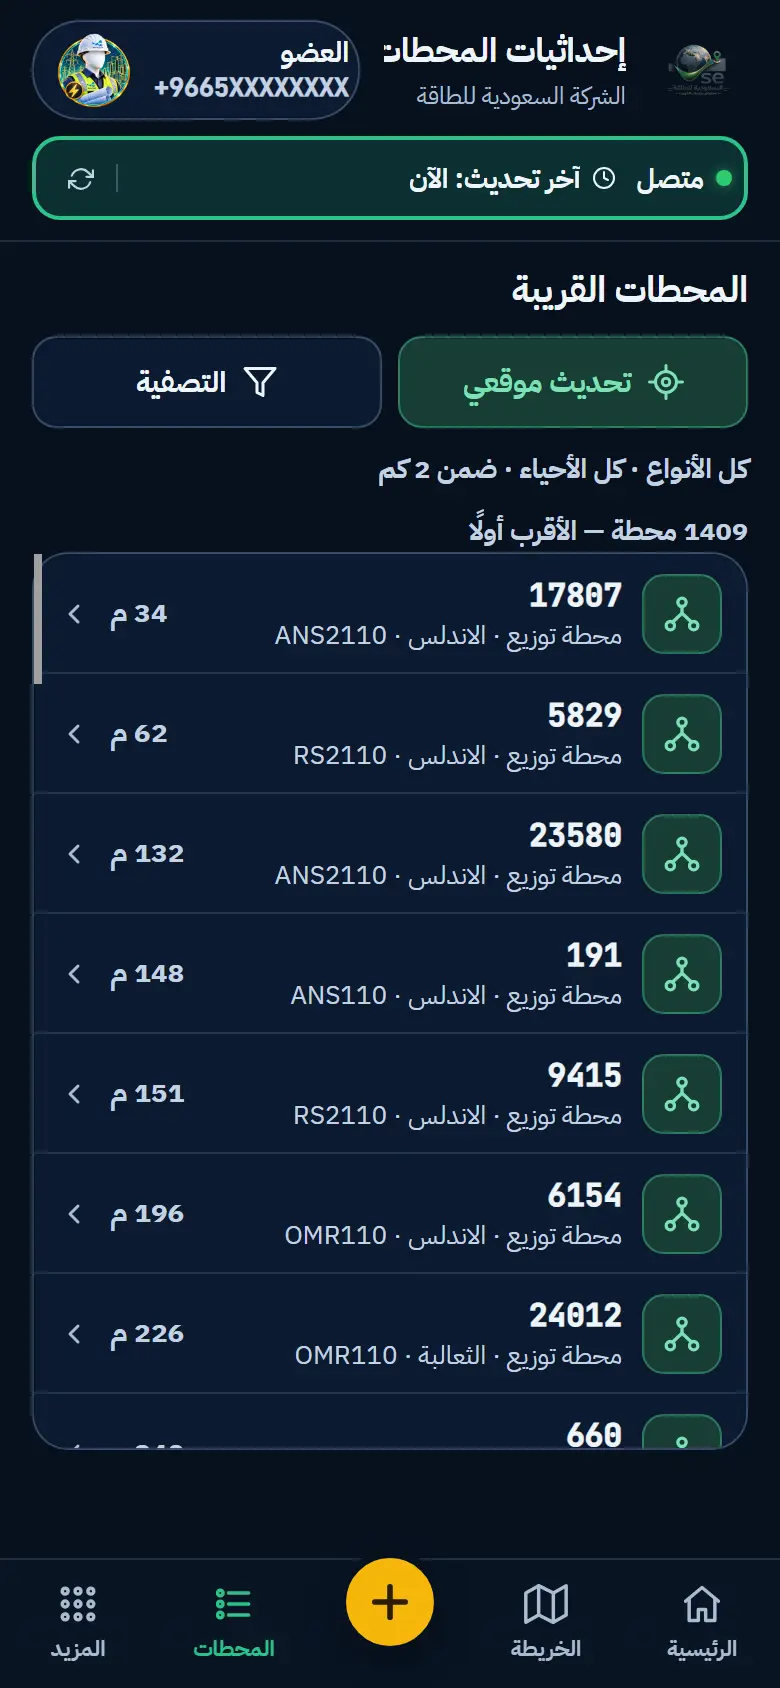
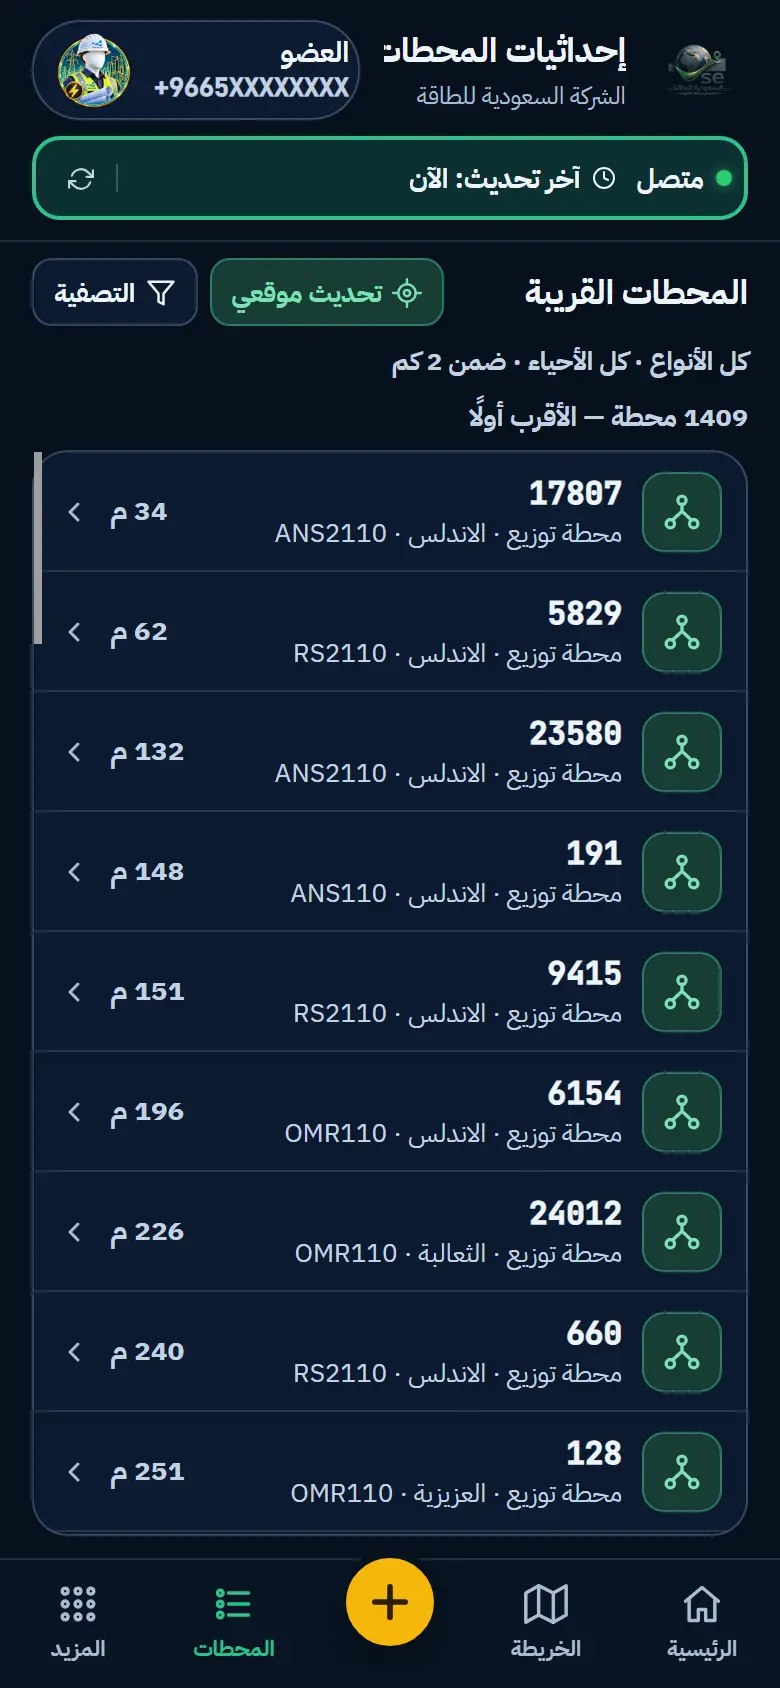
إعادة التصميم — ملاحظات محمد: المحطات القريبة والخريطة ولوحة المحطة وبطاقات الأرقام
- المحطات القريبة: الزران صغيران بجانب العنوان، والقائمة تملأ المساحة حتى الشريط السفلي
- الخريطة: بلا فراغ فوقها (سطر رسائل البحث لا يحجز مساحة وهو فارغ) ولا تحتها (بلا حد أدنى لارتفاع المسرح)
- لوحة المحطة: رمز النوع صغير في سطر علوي، والرقم خانة بجانب المغذي والمنطقة (محطة | المغذي | المنطقة)
- الرئيسية: بطاقات الأرقام أصغر بارتفاع موحّد، و«عمليات اليوم» بفاصل (1 إضافة | 0 تعديل)
- إعادة التقاط شرائح الجولة المتأثرة

diff --git a/config/جولة_تعريفية.js b/config/جولة_تعريفية.js
@@ -34,28 +34,28 @@
       { img: 'assets/tour/06-state-offline.webp', rect: { x: 0, y: 68, w: 390, h: 52 },
         title: '🔴 أحمر: لا يوجد اتصال بالإنترنت',
         text: 'إذا انقطع الإنترنت يتحول الشريط إلى الأحمر ويذكر آخر وقت حُدّثت فيه نسختك — والبحث والخريطة والملاحة تعمل منها.\nوإن لم تكن على الجهاز نسخة يقول ذلك صراحة: «لا توجد نسخة ولا يوجد إنترنت».' },
-      { img: 'assets/tour/07-search-server.webp', rect: { x: 27, y: 728, w: 336, h: 28 },
+      { img: 'assets/tour/07-search-server.webp', rect: { x: 27, y: 726, w: 336, h: 28 },
         title: '⏱ البحث قبل تحميل النسخة',
         text: 'قبل اكتمال النسخة يذهب البحث إلى الخادم وينتظر رده — وتظهر المدة الفعلية ومصدرها أسفل بطاقة المحطة.\nوبدون إنترنت لا يمكن البحث قبل تحميل النسخة.' },
-      { img: 'assets/tour/08-search-local.webp', rect: { x: 27, y: 703, w: 336, h: 53 },
+      { img: 'assets/tour/08-search-local.webp', rect: { x: 27, y: 701, w: 336, h: 53 },
         title: '⚡ البحث بعد تحميل النسخة',
         text: 'بعد التحميل تظهر النتيجة من جهازك في جزء من الألف من الثانية — «من نسخة جهازك» — حتى بدون إنترنت.\nوالنسخة تتحدث تلقائيًا بتغييرات الزملاء.' },
-      { img: 'assets/tour/09-station-sheet.webp', rect: { x: 12, y: 526, w: 366, h: 243 }, point: { x: 27, y: 628, w: 62, h: 67 },
+      { img: 'assets/tour/09-station-sheet.webp', rect: { x: 12, y: 509, w: 366, h: 258 }, point: { x: 27, y: 626, w: 62, h: 67 },
         title: '📍 لوحة المحطة تحت الخريطة',
         text: 'الخريطة تأخذ الشاشة، وتحتها لوحة المحطة: الرقم والنوع والمغذي والمنطقة، وأزرار المسار وقوقل ماب والمشاركة والتعديل.\nوبطاقة «محطة بالمغذي» تعرض عدد محطات المغذي، وتُظهرها على الخريطة بالضغط عليها.' },
       { img: 'assets/tour/10-details.webp', rect: { x: 16, y: 279, w: 358, h: 52 },
         title: '📋 تفاصيل المحطة',
         text: 'زر «التفاصيل» في لوحة المحطة يفتح ثلاثة تبويبات: المعلومات (ومعها نسخ الإحداثيات)، والموقع، والمحطات القريبة منها.\nوزر الرجوع يعيدك إلى الخريطة على المحطة نفسها.' },
-      { img: 'assets/tour/11-nearby.webp', rect: { x: 16, y: 168, w: 358, h: 557 },
+      { img: 'assets/tour/11-nearby.webp', rect: { x: 16, y: 129, w: 358, h: 639 },
         title: '📡 المحطات القريبة من موقعك',
         text: 'من «المحطات» في الشريط السفلي اضغط «تحديد موقعي»: تظهر المحطات حولك، الأقرب أولًا، مع المسافة.\nو«التصفية» تختار النوع والحي ونطاق البحث بالكيلومتر.' },
       { img: 'assets/tour/12-outages-input.webp', rect: { x: 16, y: 455, w: 358, h: 285 }, point: { x: 261, y: 455, w: 113, h: 96 },
         title: '⚡ بحث الأعطال: أرقام عدة محطات',
         text: 'في الرئيسية اضغط بطاقة «الأعطال»، فتظهر تحتها خانة الأرقام.\nاكتب أرقام المحطات التي فيها العطل (حتى 15 محطة) وافصل بينها بمسافة أو فاصلة، ثم اضغط بحث.' },
-      { img: 'assets/tour/13-outages-map.webp', rect: { x: 29, y: 262, w: 178, h: 33 },
+      { img: 'assets/tour/13-outages-map.webp', rect: { x: 29, y: 242, w: 178, h: 33 },
         title: '🗺 نتيجة بحث الأعطال على الخريطة',
         text: 'تظهر المحطات بالأحرف A ثم B ثم C بترتيب كتابتك، مع خط يربطها.\nوزر «الانتقال بالترتيب على قوقل ماب» يفتح مسارًا جاهزًا يمر بها كلها.' },
-      { img: 'assets/tour/14-ruler.webp', rect: { x: 12, y: 246, w: 366, h: 95 },
+      { img: 'assets/tour/14-ruler.webp', rect: { x: 12, y: 226, w: 366, h: 95 },
         title: '📐 قياس المسافة على الخريطة',
         text: 'من شريط أدوات الخريطة اضغط «⋯» ثم «📐 قياس المسافة».\nثم اضغط على نقطتين أو أكثر في الخريطة، فيظهر طول كل جزء والمسافة الإجمالية.' },
       { img: 'assets/tour/15-nav-online.webp', rect: { x: 0, y: 708, w: 390, h: 136 },
@@ -70,7 +70,7 @@
       { img: 'assets/tour/18-shifts.webp', rect: { x: 16, y: 216, w: 358, h: 236 },
         title: '📅 تقويم دوام الورديات 4×4',
         text: 'من «المزيد» ← «تقويم دوام الورديات»: دوام اليوم لكل وردية (صباحي / مسائي / راحة) محسوب تلقائيًا.\nوتحته تقويم الشهر كاملًا بالتاريخ الميلادي والهجري.' },
-      { img: 'assets/tour/19-dashboard.webp', rect: { x: 16, y: 289, w: 358, h: 194 },
+      { img: 'assets/tour/19-dashboard.webp', rect: { x: 16, y: 289, w: 358, h: 164 },
         title: '📊 أرقام المحطات',
         text: 'في الرئيسية: محطات التوزيع، ومحطات التحويل، والإجمالي، وعمليات اليوم — و«إضافة وتعديل اليوم حسب النوع» عند الضغط.\nيمكنك إعادة هذه الجولة في أي وقت من «المزيد» ← «الجولة التعريفية».' }
     ]

diff --git a/components/station-card.js b/components/station-card.js
@@ -85,16 +85,20 @@
     return '<button class="st-btn ' + cls + '" type="button" data-act="' + act + '"' + (extra || '') + '><span class="st-ico">' + BTN_ICON[icon] + '</span><span class="st-lbl">' + label + '</span></button>';
   }
 
-  /* رأس اللوحة: النوع والرقم، ثم المغذي والمنطقة — the sheet head: type and number, then feeder and region */
+  /* رأس اللوحة (طلب محمد 19 أكتوبر): سطر علوي برمز النوع الصغير والنوع و«التفاصيل»، ثم خانات «محطة | المغذي | المنطقة»
+   * The sheet head (Mohammed, 19 Oct): a top line with the small type symbol, the type and «details», then the cells
+   * «station | feeder | region» */
   function topHtml_(s, deps) {
-    const coords = Q.hasCoordinates(s), sub = s.type === 'تحويل';
+    const coords = Q.hasCoordinates(s), sub = s.type === 'تحويل', kind = sub ? 'is-sub' : 'is-dist';
     return '<div class="sb-inner sb-top">' +
       '<div class="sheet-head">' +
-        '<span class="sheet-badge ' + (sub ? 'is-sub' : 'is-dist') + '" aria-hidden="true">' + (TYPE_ICON[s.type] || TYPE_ICON['توزيع']) + '</span>' +
-        '<div class="sheet-title"><div class="sheet-id"><span class="sheet-id-k">محطة</span> <bdi class="cell-value">' + esc(s.id) + '</bdi></div>' +
-          '<div class="sheet-type ' + (sub ? 'is-sub' : 'is-dist') + '">' + (sub ? 'محطة تحويل' : 'محطة توزيع') + '</div>' +
-          (deps && deps.onDetails ? '<button type="button" class="sheet-more" data-act="details">التفاصيل ‹</button>' : '') + '</div>' +
+        '<div class="sheet-line">' +
+          '<span class="sheet-badge ' + kind + '" aria-hidden="true">' + (TYPE_ICON[s.type] || TYPE_ICON['توزيع']) + '</span>' +
+          '<span class="sheet-type ' + kind + '">' + (sub ? 'محطة تحويل' : 'محطة توزيع') + '</span>' +
+          (deps && deps.onDetails ? '<button type="button" class="sheet-more" data-act="details">التفاصيل ‹</button>' : '') +
+        '</div>' +
         '<div class="sb-data-row sheet-meta">' +
+          '<div class="sb-data-cell sheet-id"><div class="cell-label">محطة</div><bdi class="cell-value">' + esc(s.id) + '</bdi></div>' +
           (s.feeder ? '<div class="sb-data-cell"><div class="cell-label">المغذي</div><div class="cell-value">' + esc(s.feeder) + '</div></div>' : '') +
           (s.region ? '<div class="sb-data-cell"><div class="cell-label">المنطقة</div><div class="cell-value ar">' + esc(s.region) + '</div></div>' : '') +
         '</div>' +

diff --git a/styles/stations-list.css b/styles/stations-list.css
@@ -50,3 +50,21 @@
 .sl-state{display:flex;flex-direction:column;align-items:center;gap:12px;padding:22px 14px;border-radius:var(--radius-lg);border:1px dashed var(--border-strong);
   color:var(--text-secondary);font-size:14.5px;font-weight:600;text-align:center;line-height:1.7;}
 .sl-retry{padding:0 18px;}
+
+/* ===== طلب محمد (19 أكتوبر): الزران صغيران بجانب العنوان، والقائمة تملأ المساحة حتى الشريط السفلي =====
+   الشاشة عمود بارتفاع المساحة بين الرأس والشريط السفلي؛ القائمة تأخذ الباقي وتتمرر داخله، ولوحة التصفية تتمرر داخلها.
+   Mohammed's request: two small buttons beside the title, and the list fills the space down to the bottom bar. */
+.stations-list{box-sizing:border-box;gap:8px;padding-top:8px;
+  height:calc(100dvh - var(--header-h, 120px) - var(--tabbar-h) - env(safe-area-inset-bottom, 0px) - 12px);}
+.sl-head{display:flex;align-items:center;gap:8px;flex-wrap:wrap;flex-shrink:0;}
+.sl-title{flex:1;min-width:0;font-size:17px;white-space:nowrap;}
+.sl-bar{display:flex;gap:6px;flex-shrink:0;}
+.sl-chip{min-height:34px;padding:0 10px;gap:5px;border-radius:10px;font-size:13px;}
+.sl-chip svg{width:15px;height:15px;}
+.sl-summary{flex-shrink:0;font-size:13px;}
+.sl-filter{flex:0 1 auto;min-height:0;overflow-y:auto;overscroll-behavior:contain;}
+.sl-body{flex:1;min-height:0;display:flex;flex-direction:column;gap:6px;}
+.sl-count{flex-shrink:0;}
+.sl-list{flex:1;min-height:0;max-height:none;}
+.sl-body > .sl-state{flex-shrink:0;}
+@media (max-width:359px){ .sl-title{font-size:15px;} .sl-chip{padding:0 8px;} .sl-chip svg{display:none;} }

diff --git a/styles/home.css b/styles/home.css
@@ -244,3 +244,15 @@ body.guest-mode .app-views{display:none;}
   background:linear-gradient(90deg, #ffffff, var(--teal-light));-webkit-background-clip:text;background-clip:text;-webkit-text-fill-color:transparent;text-shadow:0 2px 14px rgba(0,0,0,0.55);}
 [data-theme="light"] .guest-title{background:linear-gradient(90deg, var(--text-primary), var(--teal));-webkit-background-clip:text;background-clip:text;-webkit-text-fill-color:transparent;text-shadow:none;}
 .guest-landing .guest-login-cta{display:flex;margin-top:0;}
+
+/* ===== الخريطة بلا فراغ فوقها وتحتها (طلب محمد 19 أكتوبر): مسافات أضيق، وبلا حد أدنى لارتفاع المسرح —
+   فالشاشات القصيرة لم تعد تترك فراغًا بين الخريطة ولوحة المحطة (كان المسرح 280 والخريطة 200).
+   The map with no gap above or below it: tighter spacing and no stage minimum height, so short screens no longer leave a
+   gap between the map and the station sheet. */
+.view-map.hero{padding-top:6px;}
+.view-map .map-stage-slot{margin-top:6px;}
+.view-map .map-stage-slot .globe-stage.map-active{min-height:0;}
+.view-map .station-sheet{margin-top:6px;}
+/* سطر رسائل البحث لا يحجز مساحة وهو فارغ (كان 22 نقطة فوق الخريطة)، ويظهر بنصه عند وجود رسالة
+   The search message line takes no space while empty (it was 22px above the map), and shows when there is a message */
+.view-map .station-search-hint:empty{min-height:0;padding:0;}

diff --git a/styles/station-card.css b/styles/station-card.css
@@ -204,3 +204,16 @@ body.nav-full .station-sheet{display:none !important;}
 .station-sheet .sheet-foot .db-freshness-note{margin:0;padding:0;border:none;}
 /* زر «التفاصيل» تحت نوع المحطة — the «details» button under the station type */
 .sheet-more{margin-top:4px;padding:4px 10px;border-radius:9px;border:1px solid var(--border-strong);background:var(--bg-elev);color:var(--text-primary);font-family:inherit;font-size:12.5px;font-weight:700;cursor:pointer;}
+
+/* ===== رأس اللوحة (طلب محمد 19 أكتوبر): رمز النوع صغير في سطر علوي، والرقم خانة بجانب المغذي والمنطقة =====
+   The sheet head: a small type symbol on a top line, and the number a cell beside the feeder and region */
+.sheet-head{flex-direction:column;align-items:stretch;gap:8px;}
+.sheet-line{display:flex;align-items:center;gap:8px;min-width:0;}
+.sheet-badge{width:28px;height:28px;border-radius:8px;}
+.sheet-badge svg{width:16px;height:16px;}
+.sheet-line .sheet-type{font-size:14px;flex:1;min-width:0;}
+.sheet-line .sheet-more{margin:0;flex-shrink:0;}
+.station-sheet .sheet-meta{flex:none;width:100%;}
+.station-sheet .sheet-meta .sb-data-cell .cell-value{display:block;}
+.station-sheet .sheet-meta .sheet-id .cell-value{font-size:16px;}
+@media (max-width:380px){ .sheet-badge{width:26px;height:26px;} }

diff --git a/components/stations-list.js b/components/stations-list.js
@@ -57,11 +57,12 @@
     let draft = null, me = null, geo = 'idle', shown = PAGE, last = [];
     container.classList.add('stations-list');
     container.innerHTML =
-      '<div class="sl-head"><span class="sl-title">المحطات القريبة</span></div>' +
+      // العنوان والزران في سطر واحد (طلب محمد 19 أكتوبر) — the title and both buttons on one line
+      '<div class="sl-head"><span class="sl-title">المحطات القريبة</span>' +
       '<div class="sl-bar">' +
         '<button type="button" class="sl-chip sl-locate" data-act="locate">' + ICON.locate + '<span>تحديد موقعي</span></button>' +
         '<button type="button" class="sl-chip" data-act="filter" aria-expanded="false">' + ICON.filter + '<span>التصفية</span></button>' +
-      '</div>' +
+      '</div></div>' +
       '<div class="sl-summary" data-role="summary"></div>' +
       '<div class="sl-filter" data-role="filter" hidden></div>' +
       '<div class="sl-body" data-role="body"></div>';
